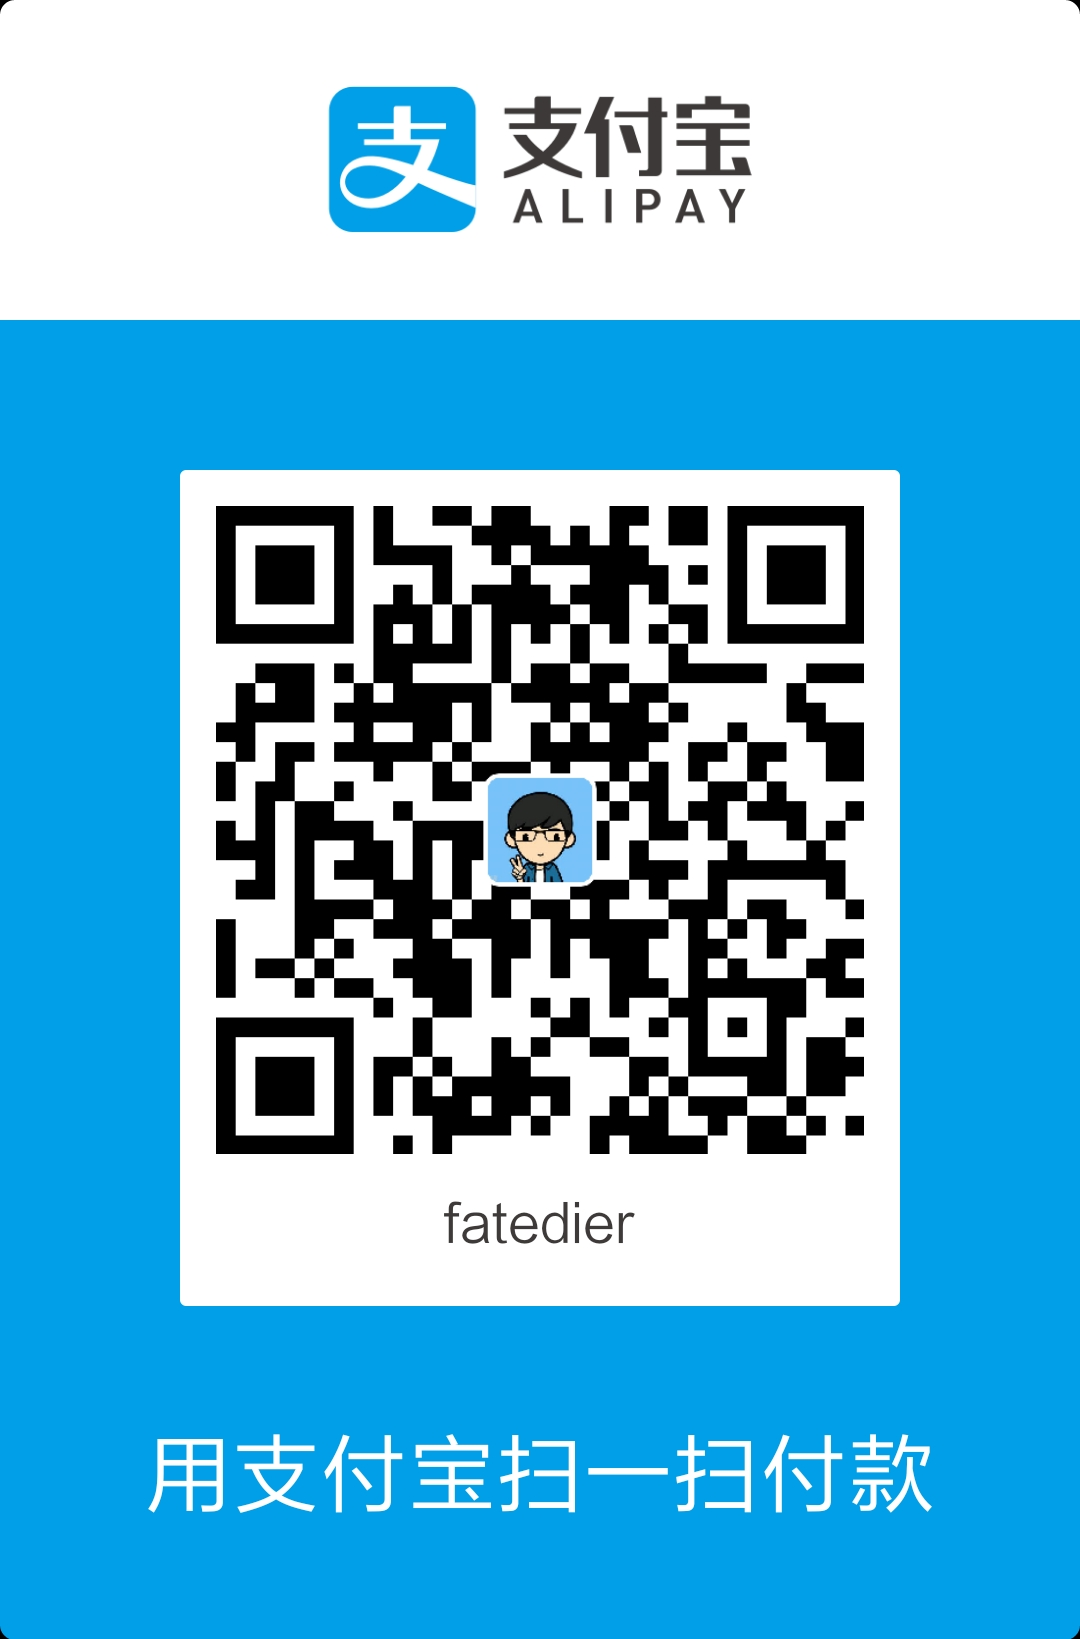
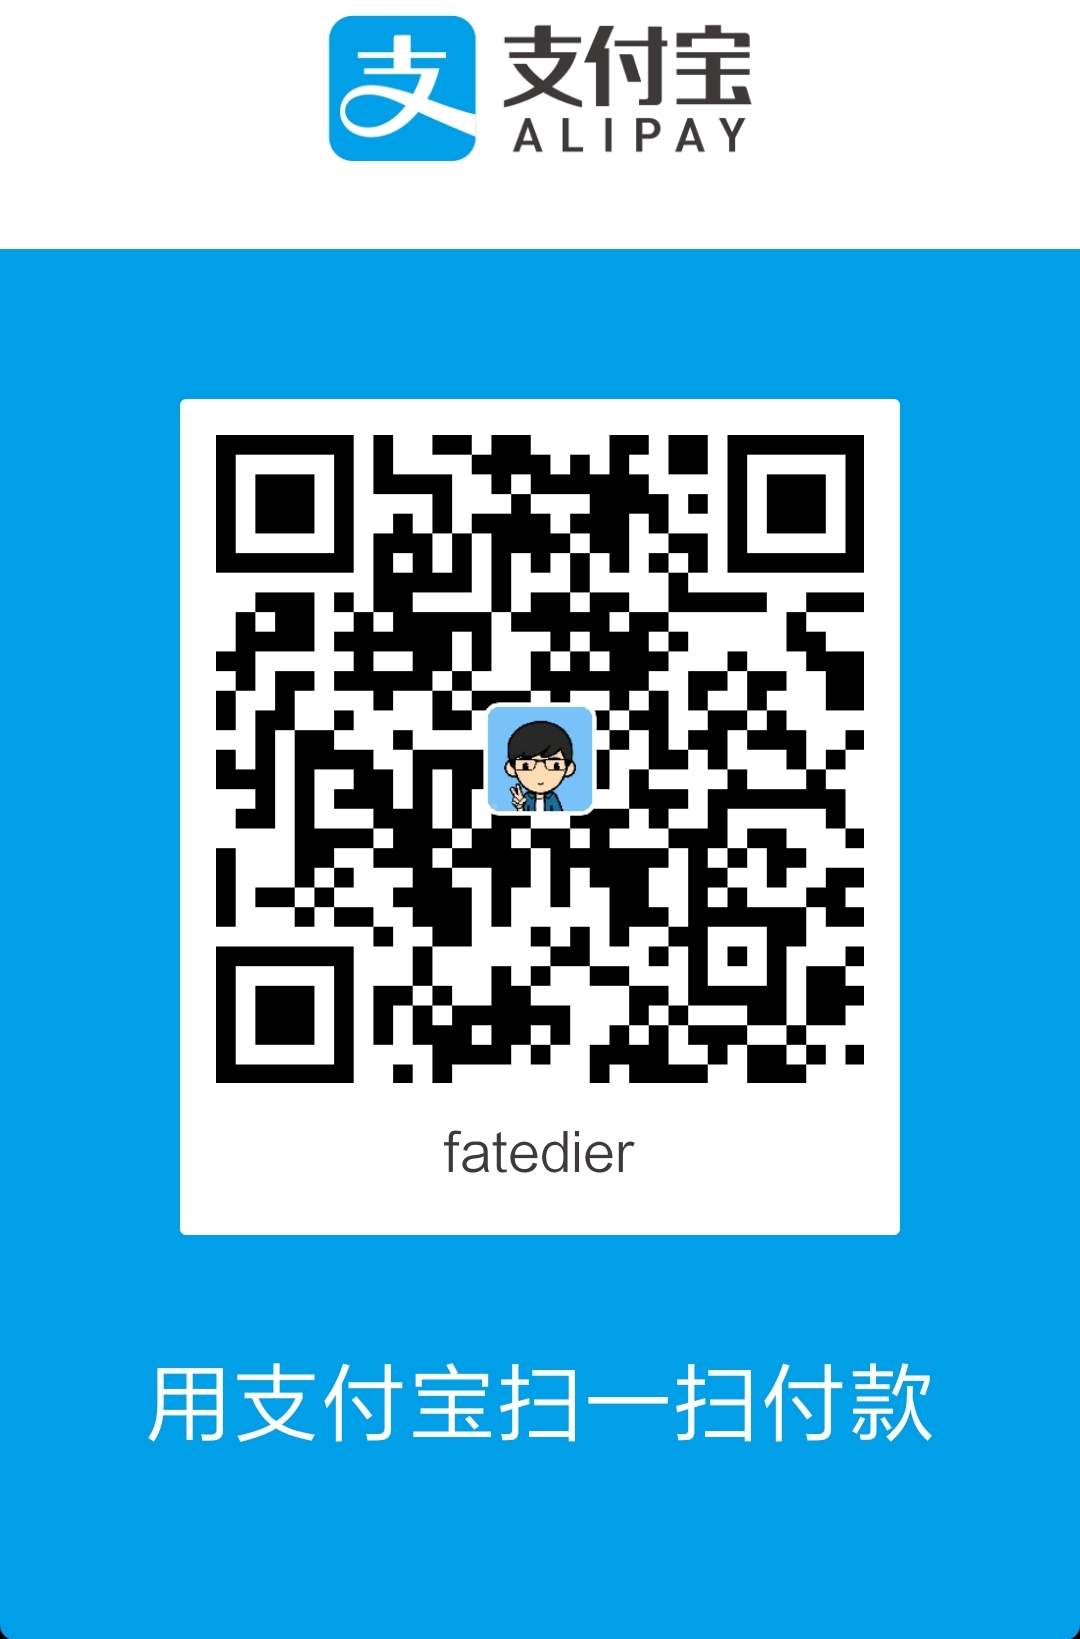
update

Changed region(s): [[0.0, 0.0, 1.0, 0.9335]]

diff --git a/docs/css/navy.css b/docs/css/navy.css
@@ -922,6 +922,15 @@ a.article-title:hover {
     max-width: 800px;
   }
 }
+.qrcode-images {
+  padding: 20px;
+  text-align: center;
+}
+.qrcode-images img {
+  display: inline-block;
+  height: 300px;
+  margin: 0 20px;
+}
 #plugin-list-header {
   margin: 40px 0;
 }
